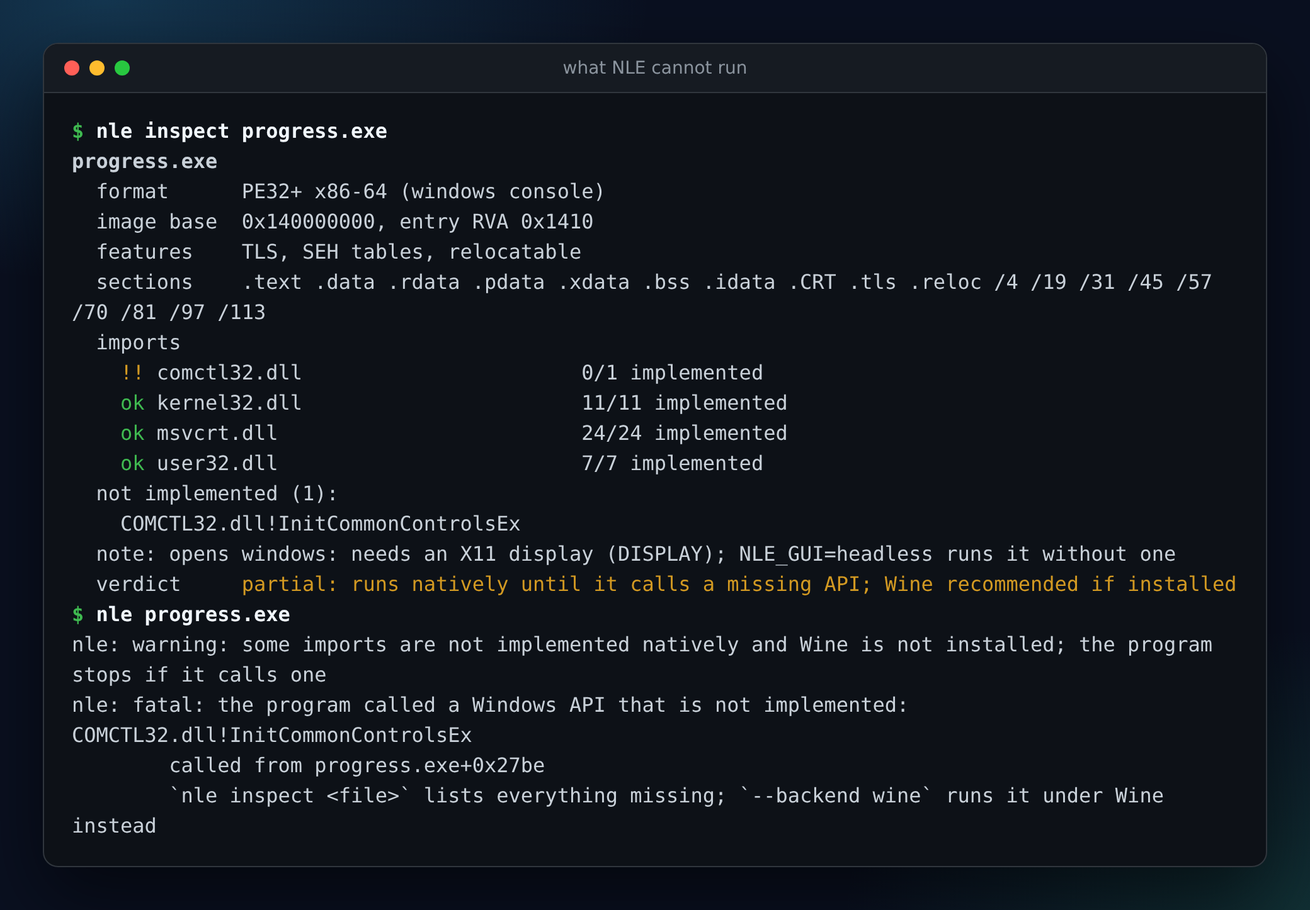
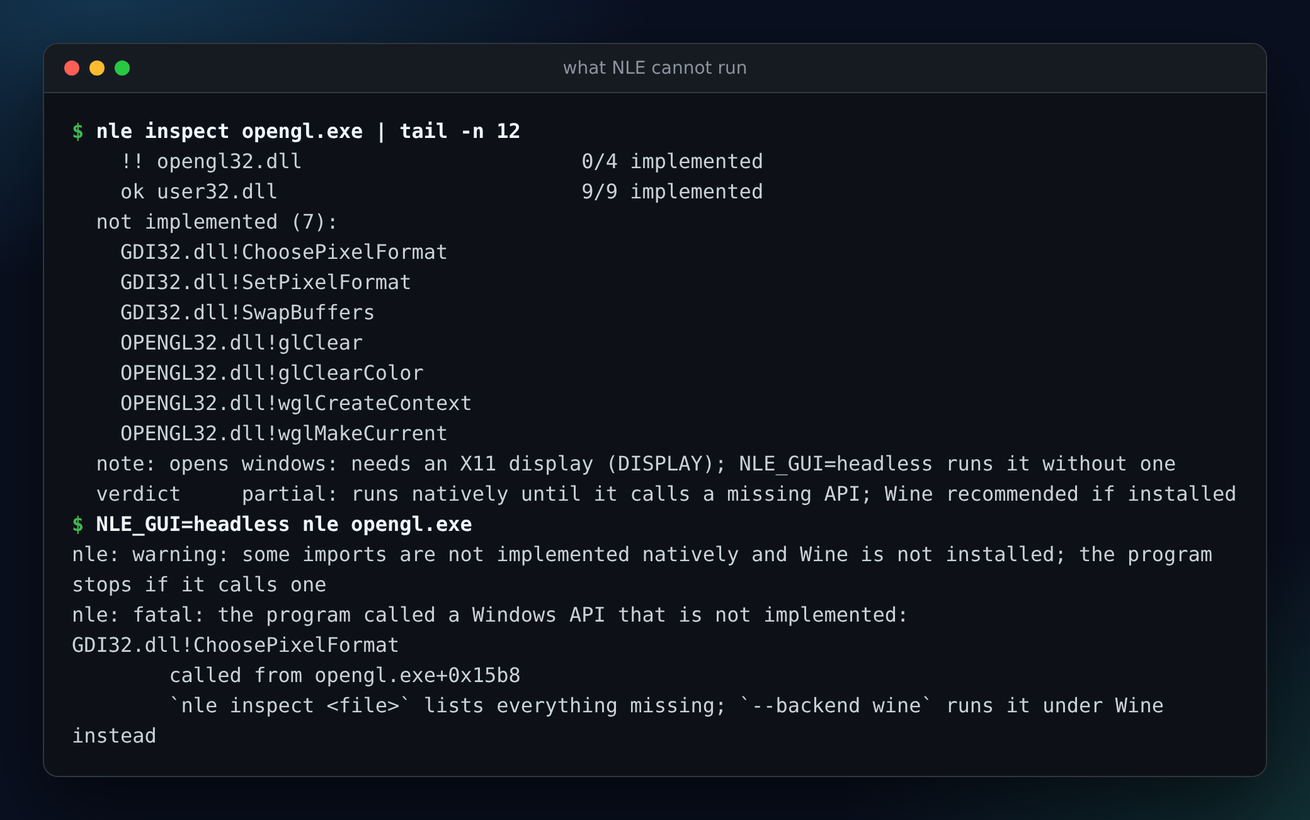
Docs, screenshots and test hygiene for the GUI features
- README, docs/GUI.md, docs/ARCHITECTURE.md and the replica parity table now describe menus, dialogs, resources,
  list boxes, combo boxes, scroll bars and the comctl32 controls as supported, and list what is still missing
  (OpenGL / Direct3D, rich edit, MDI, common dialogs, visual styles, custom draw)
- new screenshots: menus, dialogs, lists, scroll bars, list view, tree view, common controls; the "honest limits"
  scene now shows an OpenGL program (examples/opengl.c), since comctl32 programs run
- examples/progress.c is documented as a supported program; build.sh links opengl32
- tools/screenshots.py: crops and finishing steps for GUI scenes; builds xdrive with XTEST when available and
  removes the X server's files afterwards
- tests: the X server helper removes its socket and lock file when it stops and reuses the numbers of dead
  servers, so repeated runs no longer use up every display number; failures to start Xvfb or a killed program
  now say so instead of returning "skipped"

Claude-Session: https://claude.ai/code/session_01XKLrKRJs7Ehghwzqo4ZwQC

diff --git a/tools/screenshots.py b/tools/screenshots.py
@@ -75,7 +75,7 @@ SCENES = [
         "name": "05-limits",
         "title": "what NLE cannot run",
         "width": 1040,
-        "cmds": ["nle inspect progress.exe", "nle progress.exe"],
+        "cmds": ["nle inspect opengl.exe | tail -n 12", "NLE_GUI=headless nle opengl.exe"],
     },
     {
         "name": "06-doctor",
@@ -99,6 +99,8 @@ SCENES = [
     },
 ]
 
+# A GUI scene runs the program on Xvfb and plays the user with xdrive: "shot" grabs the window, "rshot" the whole
+# screen (cropped to "crop", which is how a pop-up menu is shown with its window). "finish" replaces the final close.
 GUI_SCENES = [
     {
         "name": "09-window",
@@ -124,6 +126,58 @@ GUI_SCENES = [
             "key", "2", "drag", "300", "300", "420", "110", "drag", "420", "110", "540", "310",
             "key", "3", "drag", "70", "250", "560", "250", "sleep", "200", "shot",
         ],
+    },
+    {
+        "name": "13-menus",
+        "title": "menus.exe: menu bar, check marks, accelerators",
+        "exe": "menus.exe",
+        "wait_title": "NLE menus",
+        "steps": ["key", "F10", "sleep", "200", "key", "v", "sleep", "300", "rshot"],
+        "crop": [128, 184, 508, 344],
+    },
+    {
+        "name": "14-dialogs",
+        "title": "dialogs.exe: a dialog built from resources",
+        "exe": "dialogs.exe",
+        "wait_title": "NLE dialogs",
+        "steps": ["fclick", "10", "10", "sleep", "200", "fclick", "40", "34", "sleep", "300", "title", "Settings", "wait", "5000", "type", "Eve", "key", "Tab", "key", "space", "sleep", "200", "shot"],
+        "finish": ["key", "Return", "sleep", "300", "title", "NLE dialogs", "wait", "3000", "close"],
+    },
+    {
+        "name": "15-lists",
+        "title": "lists.exe: list boxes and combo boxes",
+        "exe": "lists.exe",
+        "wait_title": "NLE lists",
+        "steps": ["click", "30", "50", "click", "30", "150", "sleep", "200", "fclick", "330", "20", "sleep", "300", "rshot"],
+        "crop": [128, 184, 528, 454],
+    },
+    {
+        "name": "16-list-view",
+        "title": "common.exe: tool bar, tab control, list view, status bar",
+        "exe": "common.exe",
+        "wait_title": "NLE common controls",
+        "steps": ["click", "100", "122", "click", "200", "66", "sleep", "200", "shot"],
+    },
+    {
+        "name": "17-tree-view",
+        "title": "common.exe: tree view with images",
+        "exe": "common.exe",
+        "wait_title": "NLE common controls",
+        "steps": ["click", "65", "42", "click", "41", "83", "click", "60", "155", "sleep", "200", "shot"],
+    },
+    {
+        "name": "18-controls",
+        "title": "common.exe: progress bar, track bar, spin control",
+        "exe": "common.exe",
+        "wait_title": "NLE common controls",
+        "steps": ["click", "110", "42", "click", "200", "98", "click", "162", "152", "click", "162", "152", "sleep", "200", "shot"],
+    },
+    {
+        "name": "19-scroll-bars",
+        "title": "scroll.exe: window scroll bars",
+        "exe": "scroll.exe",
+        "wait_title": "NLE scroll bars",
+        "steps": ["shot"],
     },
     {
         "name": "12-message-box",
@@ -335,14 +389,15 @@ def render_gui(scene: dict, tmp: Path, display: str, drive: Path):
     env = dict(os.environ, DISPLAY=display, NLE_PREFIX=str(DEMO / ".prefix"), HOME=str(DEMO.parent), USER="user")
     env.pop("NLE_GUI", None)
     prog = subprocess.Popen([str(NLE), "run", str(DEMO / scene["exe"])], env=env, cwd=DEMO, stdout=subprocess.DEVNULL, stderr=subprocess.DEVNULL)
-    steps = []
-    for st in scene["steps"]:
-        steps.append(str(ppm) if st == "shot" else st)
-    # `shot` is followed by its file name argument
     cmd = [str(drive), scene["wait_title"], "wait", "8000"]
     for st in scene["steps"]:
-        cmd += ["shot", str(ppm)] if st == "shot" else [st]
-    cmd += ["close"] if scene["exe"] != "msgbox.exe" else ["key", "y", "sleep", "400", "title", "NLE", "wait", "5000", "key", "enter"]
+        cmd += [st, str(ppm)] if st in ("shot", "rshot") else [st]
+    if "finish" in scene:
+        cmd += scene["finish"]
+    elif scene["exe"] == "msgbox.exe":
+        cmd += ["key", "y", "sleep", "400", "title", "NLE", "wait", "5000", "key", "enter"]
+    else:
+        cmd += ["close"]
     subprocess.run(cmd, env=env, check=True)
     try:
         prog.wait(timeout=15)
@@ -350,6 +405,8 @@ def render_gui(scene: dict, tmp: Path, display: str, drive: Path):
         prog.kill()
     from PIL import Image
     img = Image.open(ppm).convert("RGB")
+    if "crop" in scene:
+        img = img.crop(tuple(scene["crop"]))
     png = tmp / f"{scene['name']}-raw.png"
     img.save(png)
     page = tmp / f"{scene['name']}.html"
@@ -392,13 +449,21 @@ def main():
     gui = [g for g in GUI_SCENES if not wanted or any(w in g["name"] for w in wanted)]
     if gui:
         drive = DEMO / "xdrive"
-        subprocess.run(["cc", "-O1", "-o", str(drive), str(ROOT / "tests" / "gui" / "xdrive.c"), "-lX11"], check=True)
+        # fclick needs libXtst; without it the scenes that use fclick cannot run
+        cc = ["cc", "-O1", "-o", str(drive), str(ROOT / "tests" / "gui" / "xdrive.c"), "-lX11"]
+        if subprocess.run(cc + ["-l:libXtst.so.6"], capture_output=True).returncode != 0:
+            subprocess.run(cc + ["-DNO_XTEST"], check=True)
         xvfb, display = start_xvfb()
         try:
             for g in gui:
                 render_gui(g, tmp, display, drive)
         finally:
             xvfb.kill()
+            xvfb.wait()
+            # a killed server leaves its socket and lock behind
+            n = display.lstrip(":")
+            for f in (f"/tmp/.X11-unix/X{n}", f"/tmp/.X{n}-lock"):
+                Path(f).unlink(missing_ok=True)
     shutil.rmtree(tmp, ignore_errors=True)
 
 

diff --git a/tests/gui.rs b/tests/gui.rs
@@ -582,7 +582,29 @@ impl Drop for Xvfb {
     fn drop(&mut self) {
         let _ = self.child.kill();
         let _ = self.child.wait();
+        // a killed server leaves its socket and lock file behind; they would pile up and use up the display numbers
+        remove_display_files(&self.display);
     }
+}
+
+fn remove_display_files(display: &str) {
+    let n = display.trim_start_matches(':');
+    let _ = std::fs::remove_file(format!("/tmp/.X11-unix/X{n}"));
+    let _ = std::fs::remove_file(format!("/tmp/.X{n}-lock"));
+}
+
+/// Whether display `:n` belongs to a running server; the files of a dead one (an earlier run that was killed) are removed.
+fn display_in_use(n: u32) -> bool {
+    let socket = format!("/tmp/.X11-unix/X{n}");
+    let lock = format!("/tmp/.X{n}-lock");
+    if !Path::new(&socket).exists() && !Path::new(&lock).exists() {
+        return false;
+    }
+    let alive = std::fs::read_to_string(&lock).ok().and_then(|t| t.trim().parse::<u32>().ok()).is_some_and(|pid| Path::new(&format!("/proc/{pid}")).exists());
+    if !alive {
+        remove_display_files(&format!(":{n}"));
+    }
+    alive
 }
 
 fn start_xvfb() -> Option<Xvfb> {
@@ -591,7 +613,7 @@ fn start_xvfb() -> Option<Xvfb> {
     for _ in 0..20 {
         let n = 100 + (std::process::id() % 400) + NEXT.fetch_add(7, Ordering::SeqCst);
         let socket = format!("/tmp/.X11-unix/X{n}");
-        if Path::new(&socket).exists() {
+        if display_in_use(n) {
             continue;
         }
         let mut child = Command::new(&xvfb).arg(format!(":{n}")).args(["-screen", "0", "1024x768x24", "-nolisten", "tcp", "-noreset"]).stdout(Stdio::null()).stderr(Stdio::null()).spawn().ok()?;
@@ -607,7 +629,7 @@ fn start_xvfb() -> Option<Xvfb> {
         }
         let _ = child.kill();
     }
-    None
+    panic!("Xvfb is installed but would not start on any of 20 display numbers");
 }
 
 /// The X test driver, built with real pointer injection (XTEST) when libXtst is there.
@@ -653,7 +675,12 @@ fn on_x_with(exe: &str, args: &[&str], title: &str, steps: &[&str]) -> Option<(i
             if let Some(mut o) = prog.stdout.take() {
                 std::io::Read::read_to_string(&mut o, &mut text).ok();
             }
-            return st.code().map(|c| (c, text));
+            let mut err = String::new();
+            if let Some(mut o) = prog.stderr.take() {
+                std::io::Read::read_to_string(&mut o, &mut err).ok();
+            }
+            let code = st.code().unwrap_or_else(|| panic!("{exe} was killed by a signal ({st}); stderr: {err}"));
+            return Some((code, text));
         }
         if start.elapsed() > Duration::from_secs(20) {
             prog.kill().ok();

diff --git a/examples/opengl.c b/examples/opengl.c
@@ -1,0 +1,42 @@
+/* A window that draws with OpenGL. NLE does not implement OpenGL, so this one shows what an unsupported
+ * program looks like:
+ *
+ *   nle inspect opengl.exe    # verdict: partial, with the missing functions listed
+ *   nle opengl.exe            # stops with a clear message instead of misbehaving
+ */
+#include <windows.h>
+#include <GL/gl.h>
+
+static LRESULT CALLBACK proc(HWND h, UINT m, WPARAM w, LPARAM l) {
+    if (m == WM_DESTROY) {
+        PostQuitMessage(0);
+        return 0;
+    }
+    return DefWindowProcA(h, m, w, l);
+}
+
+int WINAPI WinMain(HINSTANCE inst, HINSTANCE prev, LPSTR cmd, int show) {
+    (void)prev;
+    (void)cmd;
+    WNDCLASSA wc = {0};
+    wc.lpfnWndProc = proc;
+    wc.hInstance = inst;
+    wc.lpszClassName = "NleOpenGL";
+    RegisterClassA(&wc);
+    HWND h = CreateWindowA("NleOpenGL", "NLE OpenGL", WS_OVERLAPPEDWINDOW | WS_VISIBLE, 100, 100, 320, 240, NULL, NULL, inst, NULL);
+    HDC dc = GetDC(h);
+    PIXELFORMATDESCRIPTOR pfd = {sizeof pfd, 1, PFD_DRAW_TO_WINDOW | PFD_SUPPORT_OPENGL | PFD_DOUBLEBUFFER, PFD_TYPE_RGBA, 32};
+    SetPixelFormat(dc, ChoosePixelFormat(dc, &pfd), &pfd);
+    HGLRC rc = wglCreateContext(dc);
+    wglMakeCurrent(dc, rc);
+    glClearColor(0.1f, 0.4f, 0.8f, 1.0f);
+    glClear(GL_COLOR_BUFFER_BIT);
+    SwapBuffers(dc);
+    ShowWindow(h, show);
+    MSG m;
+    while (GetMessage(&m, NULL, 0, 0) > 0) {
+        TranslateMessage(&m);
+        DispatchMessage(&m);
+    }
+    return 0;
+}

diff --git a/examples/progress.c b/examples/progress.c
@@ -1,8 +1,7 @@
-/* A window with a progress bar from the common controls library (comctl32). NLE does not
- * implement comctl32 yet, so this one shows what an unsupported program looks like:
+/* A window with a progress bar from the common controls library (comctl32), which NLE implements itself:
  *
- *   nle inspect progress.exe    # verdict: partial, with the missing functions listed
- *   nle progress.exe            # stops with a clear message instead of misbehaving
+ *   nle inspect progress.exe    # verdict: native
+ *   nle progress.exe
  */
 #include <windows.h>
 #include <commctrl.h>

diff --git a/docs/GUI.md b/docs/GUI.md
@@ -3,7 +3,7 @@
 NLE runs Win32 programs that open windows: it implements the window manager, the message loop, GDI drawing
 and the basic controls itself, and puts the finished pixels on an X11 display. Nothing of Wine is involved.
 
-![controls.exe and paint.exe running](screenshots/10-controls.png)
+![common.exe: tool bar, tab control, list view and status bar](screenshots/16-list-view.png)
 
 ## Running one
 
@@ -27,8 +27,12 @@ program prints its text to stderr and answers with the default button.
 | messages | `GetMessage`, `PeekMessage`, `PostMessage`, `SendMessage` (also across threads), `PostQuitMessage`, `DefWindowProc`, `SetTimer` with and without a callback, `WM_PAINT` / `WM_ERASEBKGND` / `WM_SIZE` / `WM_CLOSE` / `WM_DESTROY`, keyboard (`WM_KEYDOWN`, `WM_CHAR`, `WM_SYSKEYDOWN`, ...), mouse (move, buttons, double clicks, wheel, capture), focus and activation, `WM_CONTEXTMENU`, `WM_SETCURSOR` |
 | painting | `BeginPaint` / `EndPaint`, `GetDC` / `ReleaseDC`, `InvalidateRect`, `UpdateWindow`, `RedrawWindow`, clipping with rectangles and simple regions |
 | GDI | pens, brushes (solid, hatch, pattern), TrueType fonts through `CreateFont*` (Arial, Times, Courier and friends map to Liberation / DejaVu), `TextOut`, `ExtTextOut`, `DrawText`, text metrics, lines, rectangles, round rectangles, ellipses, arcs, pies, polygons, polylines, Beziers, `FillRect`, `FrameRect`, `DrawEdge`, pixels, `PatBlt`, `BitBlt`, `StretchBlt`, `StretchDIBits`, `SetDIBitsToDevice`, memory DCs, `CreateCompatibleBitmap`, `CreateDIBSection` (24 and 32 bits), `GetDIBits`, `SaveDC` / `RestoreDC`, ROP2 modes, `AlphaBlend` (constant alpha), `TransparentBlt` |
-| controls | `BUTTON` (push, default, check, 3-state, radio, group box, owner-draw), `STATIC` (text, frames, rectangles, lines), `EDIT` (single-line and multi-line without word wrap, password, read-only, selection, copy and paste, `EM_*` messages, `EN_CHANGE`) |
-| dialogs | `MessageBox` (all button sets, icons, default button, keyboard) |
+| controls | `BUTTON` (push, default, check, 3-state, radio, group box, owner-draw), `STATIC` (text, frames, rectangles, lines, icons, bitmaps), `EDIT` (single-line and multi-line without word wrap, password, read-only, selection, copy and paste, `EM_*` messages, `EN_CHANGE`), `SCROLLBAR`, `LISTBOX` (single, multiple and extended selection, sorting, owner draw, type-ahead), `COMBOBOX` (simple, drop-down, drop-down list) |
+| scroll bars | window scroll bars (`WS_VSCROLL` / `WS_HSCROLL`, `SetScrollInfo`, `ScrollWindow`) with thumb dragging, paging and auto-repeat |
+| menus | menu bars, pop-up and sub menus, check and radio items, `TrackPopupMenu`, mnemonics (`Alt+letter`, `F10`), accelerator tables (`TranslateAccelerator`), menus from `.rc` resources |
+| dialogs | `MessageBox` (all button sets, icons, default button, keyboard), `DialogBox` / `CreateDialog` from `.rc` templates (`DLGTEMPLATE` and `DLGTEMPLATEEX`), `IsDialogMessage` navigation (Tab, arrows, Enter, Esc, mnemonics), `EndDialog`, the `Get/SetDlgItem*` family |
+| resources | the resource tree of the program and of loaded DLLs: `FindResource`, `LoadResource`, `LoadString`, `LoadIcon`, `LoadBitmap`, `LoadImage` (also from `.ico` and `.bmp` files), the built-in `IDI_*` icons |
+| common controls | `comctl32`: progress, track and spin controls, status bar, tool bar (standard images included), tab control, list view (report, icon, small icon and list views, check boxes, virtual lists, column resizing, sorting), tree view (buttons, lines, images, check boxes, sorting), image lists, tool tips, window subclassing (`SetWindowSubclass`), `TaskDialog` |
 | other | clipboard text (shared between the windows of one program, not with other applications), cursors, window properties (`SetProp`), `GetSystemMetrics`, `SystemParametersInfo`, monitors, `GetKeyState`, `GetCursorPos` |
 
 Text is rendered with the system's TrueType fonts (Liberation, DejaVu, Noto, ...); `NLE_FONT_DIR` adds a directory.
@@ -39,12 +43,10 @@ Without any font, text shows as boxes and `nle doctor` says so.
 Programs that need these are reported as *partial* by `nle inspect`, and stop with the name of the missing function
 when they call one:
 
-* **Resources**: dialog templates (`DialogBox`, `CreateDialog`), menus from `.rc` files, `LoadIcon` / `LoadBitmap` /
-  `LoadString` from the executable, accelerator tables.
-* **Menus**: the functions exist so programs start, but there is no menu bar or pop-up menu.
-* **Common controls** (`comctl32`: list view, tree view, tabs, toolbars, status bar, progress bar, trackbar), list
-  boxes, combo boxes and scroll bars.
 * **Direct3D, OpenGL, DirectDraw, GDI+**, printing, and DPI scaling (windows are always 96 dpi).
+* **Rich edit**, MDI windows, the common dialogs (`GetOpenFileName`, `ChooseColor`, ...), drag and drop, and ActiveX / OLE.
+* Visual styles: controls look like the modern classic style, and do not follow a program's theme manifest.
+* Custom draw notifications (`NM_CUSTOMDRAW`), label editing in list and tree views, and tool tips on hover.
 * Per-pixel alpha and rotated text in GDI.
 * Input methods: text entry is what the X keyboard layout produces.
 
@@ -67,6 +69,7 @@ the result of the one before:
 | `wait MS` | pause |
 | `click X Y [left\|right\|middle]`, `dblclick X Y` | mouse click (client coordinates of the newest window) |
 | `move X Y`, `down X Y [button]`, `up X Y [button]` | move, press, release |
+| `smove X Y`, `sclick X Y`, `sdblclick X Y`, `sdown X Y`, `sup X Y` | the same with screen coordinates, which also reach pop-up menus and drop-down lists |
 | `wheel DELTA` | mouse wheel (120 = one notch up) |
 | `key [ctrl+\|shift+\|alt+]NAME` | a key: `a`, `5`, `enter`, `esc`, `tab`, `space`, `backspace`, `delete`, arrows, `home`, `end`, `pageup`, `pagedown`, `f1`..`f12` |
 | `type TEXT` | type characters |
@@ -87,8 +90,12 @@ The window system lives in `src/gui/`:
   surfaces.
 * `wm.rs` is the window tree: classes, geometry, invalidation, hit testing. `msg.rs` is the message pump and the
   default window procedure. `api.rs` holds the operations that send messages (create, destroy, show, paint).
-* `controls.rs` and `msgbox.rs` are the built-in classes and `MessageBox`, written as ordinary window procedures
-  registered like any program's own, so subclassing and `SendMessage` to them behave as on Windows.
+* `controls.rs`, `ctl_list.rs` (list box, scroll bar), `ctl_combo.rs`, `ctl_basic.rs` (progress, track, spin, status,
+  tool tips), `ctl_tab.rs`, `ctl_listview.rs`, `ctl_treeview.rs`, `ctl_toolbar.rs` and `msgbox.rs` are the built-in
+  classes and `MessageBox`, written as ordinary window procedures registered like any program's own, so subclassing
+  and `SendMessage` to them behave as on Windows. `menu.rs` and `dialog.rs` hold menus and dialog boxes, `nc.rs` and
+  `scroll.rs` the non-client area and scroll bars, `res.rs` the resource tree, `imagelist.rs` image lists and
+  `stock_icons.rs` the built-in icons.
 * `x11.rs` loads libX11 at run time and shows surfaces with `XPutImage`; keyboard and mouse events come back
   through it. `headless.rs` is the scripted display.
 

diff --git a/README.md b/README.md
@@ -42,9 +42,10 @@ NLE is a **compatibility layer for x86-64 Windows programs**: console tools, and
 
 | works today (tested on every commit) | does not work |
 | --- | --- |
-| C and C++ programs built with MinGW-w64 (static or dynamic runtime) | **menus**, dialog and menu resources, icons / bitmaps / strings from the executable, common controls (`comctl32`), list boxes, combo boxes, scroll bars |
-| Rust (`x86_64-pc-windows-gnu`) and Go (`GOOS=windows`) programs, which bring their own runtimes | **Direct3D**, OpenGL, DirectDraw, GDI+, printing |
-| **programs with windows**: Win32 windows and messages, GDI drawing, text, buttons, check boxes, radio buttons, labels, text boxes, message boxes, timers (shown on an X11 display, see [docs/GUI.md](docs/GUI.md)) | **32-bit** programs and **.NET** programs |
+| C and C++ programs built with MinGW-w64 (static or dynamic runtime) | **Direct3D**, OpenGL, DirectDraw, GDI+, printing |
+| Rust (`x86_64-pc-windows-gnu`) and Go (`GOOS=windows`) programs, which bring their own runtimes | rich edit, MDI, the common file / colour / font dialogs, drag and drop, ActiveX / OLE |
+| **programs with windows**: Win32 windows and messages, GDI drawing and text, buttons, check boxes, radio buttons, text boxes, list boxes, combo boxes, scroll bars, **menus and accelerators**, **dialog boxes from resources**, icons / bitmaps / strings from the executable, message boxes, timers (shown on an X11 display, see [docs/GUI.md](docs/GUI.md)) | **32-bit** programs and **.NET** programs |
+| the **common controls** (`comctl32`): tool bar, status bar, tab control, list view, tree view, progress / track / spin controls, image lists, `TaskDialog` | visual styles and theme manifests (controls draw in NLE's own classic-modern look) |
 | threads, locks, TLS, fiber-local storage, timers | MSVC C++ exceptions (`_CxxThrowException`); MinGW exceptions work |
 | files, directories, case-insensitive paths, `C:\` drives, pipes, console I/O | overlapped / IOCP networking (blocking and non-blocking sockets work) |
 | structured exceptions, hardware faults (access violation, divide by zero), C++ exceptions, `setjmp` / `longjmp` | anything that needs Windows kernel drivers, DRM, anti-cheat |
@@ -69,10 +70,14 @@ and draws what they print.
 | | |
 | --- | --- |
 | **Check a program first.** `nle inspect` lists the imports and says whether the program can run natively.<br><img src="docs/screenshots/02-inspect.png" alt="nle inspect"> | **Convert it.** `nle relink` writes a Linux ELF; `file` and `ldd` show an ordinary dynamically linked program.<br><img src="docs/screenshots/03-relink.png" alt="nle relink"> |
-| **Go and Rust programs** bring their own runtimes and run unchanged.<br><img src="docs/screenshots/04-go-and-rust.png" alt="Go and Rust programs"> | **Honest limits.** A program that needs the common controls library is reported as partial and stops with a clear message.<br><img src="docs/screenshots/05-limits.png" alt="a program NLE cannot run"> |
-| **Real test programs**: threads, files, exceptions, DLLs, sockets, child processes, the registry.<br><img src="docs/screenshots/08-test-programs.png" alt="test programs"> | **Check your machine** with `nle doctor`, and list the 1,700+ implemented functions with `nle coverage`.<br><img src="docs/screenshots/06-doctor.png" alt="nle doctor"> |
+| **Go and Rust programs** bring their own runtimes and run unchanged.<br><img src="docs/screenshots/04-go-and-rust.png" alt="Go and Rust programs"> | **Honest limits.** A program that needs OpenGL is reported as partial and stops with a clear message that names the missing function.<br><img src="docs/screenshots/05-limits.png" alt="a program NLE cannot run"> |
+| **Real test programs**: threads, files, exceptions, DLLs, sockets, child processes, the registry.<br><img src="docs/screenshots/08-test-programs.png" alt="test programs"> | **Check your machine** with `nle doctor`, and list the 1,850+ implemented functions with `nle coverage`.<br><img src="docs/screenshots/06-doctor.png" alt="nle doctor"> |
 | **Programs with windows** run on an X11 display. A form with text box, check box, radio buttons and a timer:<br><img src="docs/screenshots/10-controls.png" alt="controls.exe"> | Freehand drawing with GDI: a back buffer, mouse input, keyboard shortcuts, a timer-driven ball:<br><img src="docs/screenshots/11-paint.png" alt="paint.exe"> |
 | Message boxes with icons, buttons and keyboard handling, from a console program:<br><img src="docs/screenshots/12-message-box.png" alt="a message box"> | A plain Win32 window: the program that started this feature.<br><img src="docs/screenshots/09-window.png" alt="window.exe"> |
+| **Menus** with check marks, sub menus, mnemonics and accelerators:<br><img src="docs/screenshots/13-menus.png" alt="menus.exe"> | **Dialog boxes** built from the program's own resources, with Tab / arrow navigation and mnemonics:<br><img src="docs/screenshots/14-dialogs.png" alt="dialogs.exe"> |
+| **List boxes and combo boxes**, with drop-down lists and scroll bars:<br><img src="docs/screenshots/15-lists.png" alt="lists.exe"> | **Window scroll bars** with thumb dragging, paging and auto-repeat:<br><img src="docs/screenshots/19-scroll-bars.png" alt="scroll.exe"> |
+| **Common controls**: tool bar, tab control, a report-view **list view** with icons and check boxes, status bar:<br><img src="docs/screenshots/16-list-view.png" alt="common.exe, list view"> | The **tree view** with buttons, lines and images:<br><img src="docs/screenshots/17-tree-view.png" alt="common.exe, tree view"> |
+| **Progress, track and spin controls:**<br><img src="docs/screenshots/18-controls.png" alt="common.exe, controls"> | |
 
 ## Try it
 
@@ -85,6 +90,7 @@ $ nle relink examples/bin/sysinfo.exe -o dist && ./dist/sysinfo
 $ nle examples/bin/controls.exe        # a form with windows (needs an X11 display)
 $ nle examples/bin/paint.exe           # drag to draw, 1-4 colours, C clears
 $ nle examples/bin/msgbox.exe          # message boxes; the answer is the exit code
+$ nle examples/bin/common.exe          # tool bar, tabs, list view, tree view, status bar, spin control
 ```
 
 Windows work through the display NLE finds in `DISPLAY`. For tests and CI there is a scripted headless display:

diff --git a/docs/replica/parity.md b/docs/replica/parity.md
@@ -1,9 +1,9 @@
-## Parity: 84.9 / 100
+## Parity: 88.1 / 100
 
-features 84.9  (26 counted, must-haves 15 of 15 done)
+features 88.1  (26 counted, must-haves 15 of 15 done)
 
 ## By area, weakest first
-- compat                        22.2  (6 features)
+- compat                        44.4  (6 features)
 - network                       83.3  (2 features)
 - core                          91.3  (8 features)
 - launch                       100.0  (1 features)
@@ -17,7 +17,6 @@ features 84.9  (26 counted, must-haves 15 of 15 done)
 
 ## Missing, in build order
 - [should] compat: 32-bit Windows programs, no  (out of scope: the native layer is x64 only)
-- [should] compat: Menus, dialog resources and common controls, no  (functions exist so programs start, but no menu bar, no RT_DIALOG / RT_MENU resources, no comctl32, list / combo boxes or scroll bars)
 - [should] core: MSVC C++ exceptions (`_CxxThrowException`), no  (not implemented; programs that throw MSVC exceptions stop with a clear message)
 - [could] compat: .NET programs, no  (out of scope: needs a CLR)
 - [could] compat: Direct3D / OpenGL graphics, no  (out of scope)

diff --git a/docs/ARCHITECTURE.md b/docs/ARCHITECTURE.md
@@ -104,7 +104,8 @@ Programs with windows (`user32`, `gdi32`) are served by `src/gui/`, described in
 classes, windows, the message loop and the default window procedure are reimplemented; everything a window shows is
 drawn into memory by a software renderer (so drawing needs no display); an X11 backend, loaded with `dlopen`,
 puts the finished pixels on the screen and brings keyboard and mouse input back. A scripted headless display replaces
-X for tests. BUTTON, STATIC and EDIT are ordinary window procedures registered as built-in classes.
+X for tests. The controls (BUTTON, STATIC, EDIT, LISTBOX, COMBOBOX, SCROLLBAR and the `comctl32` classes), menus and dialog boxes are
+ordinary window procedures and window-system code registered as built-in classes, so programs can subclass them.
 
 ## Backends
 
